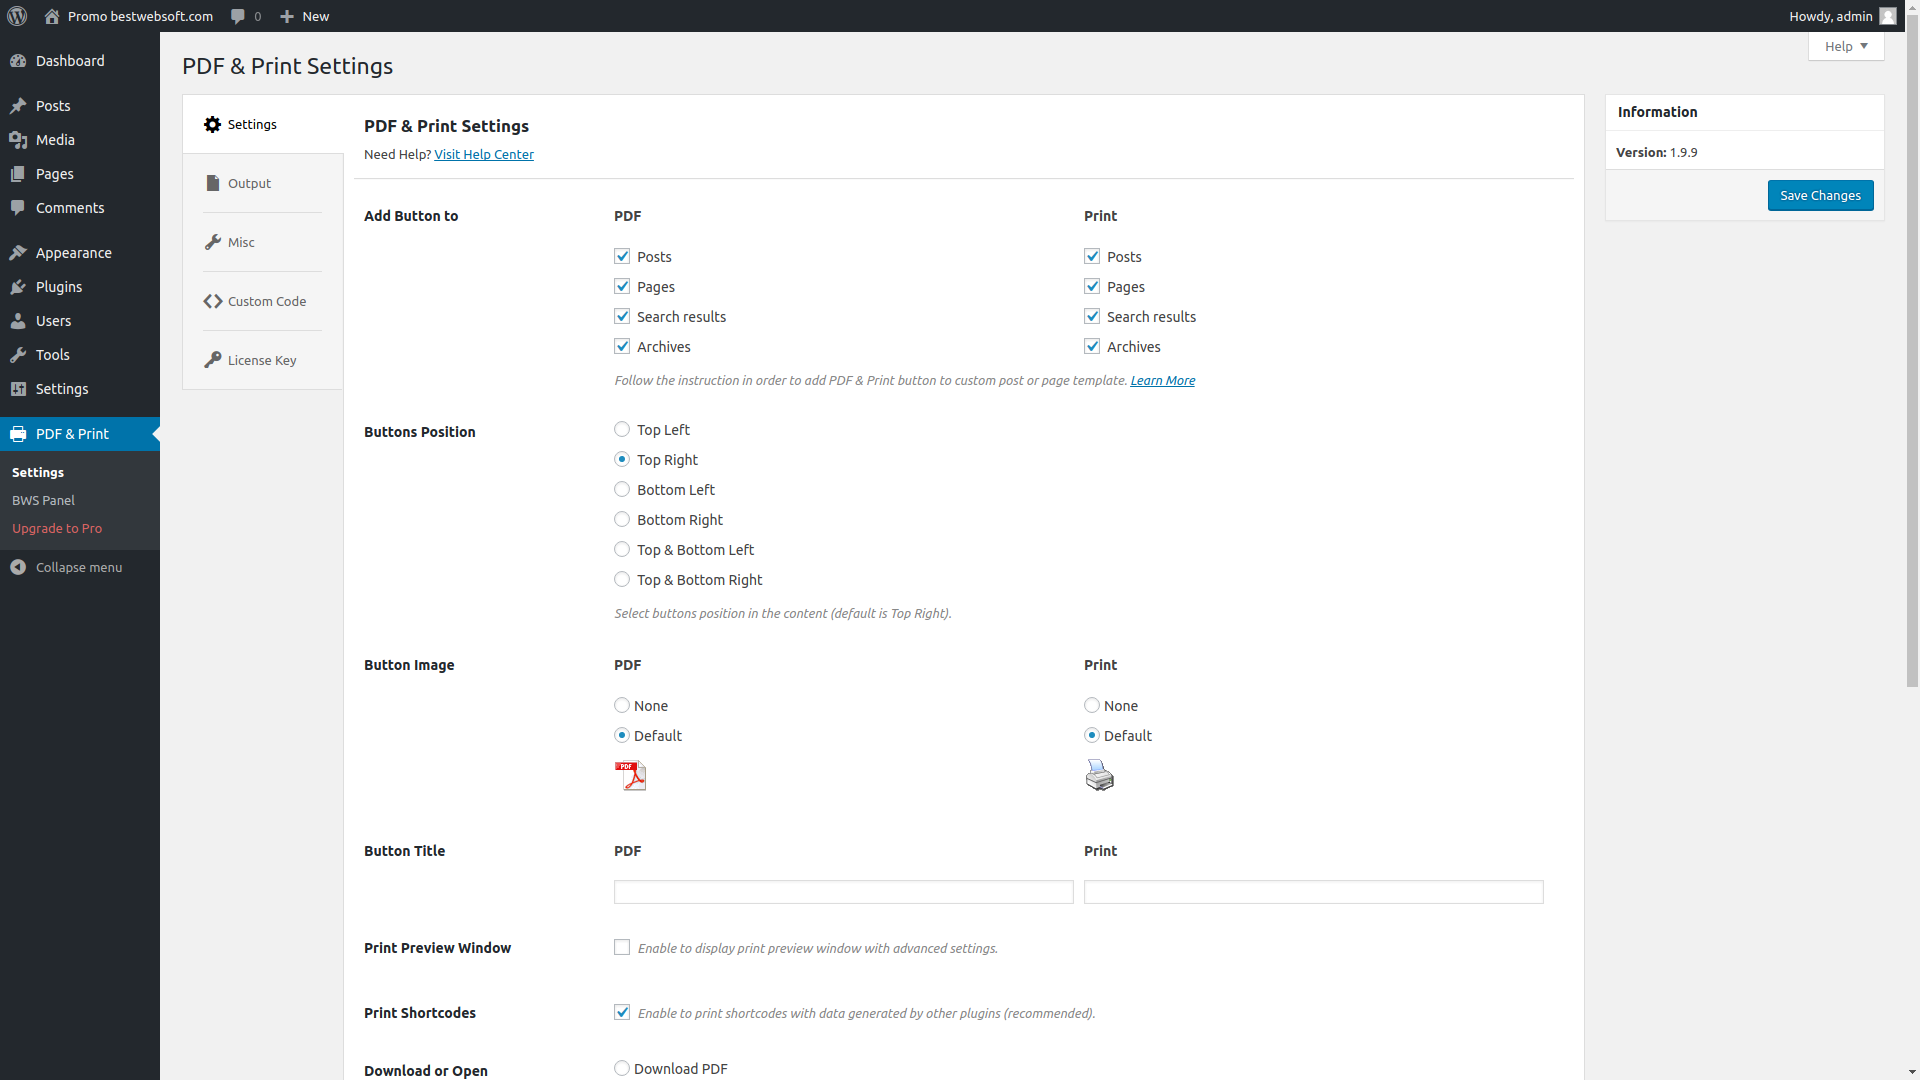
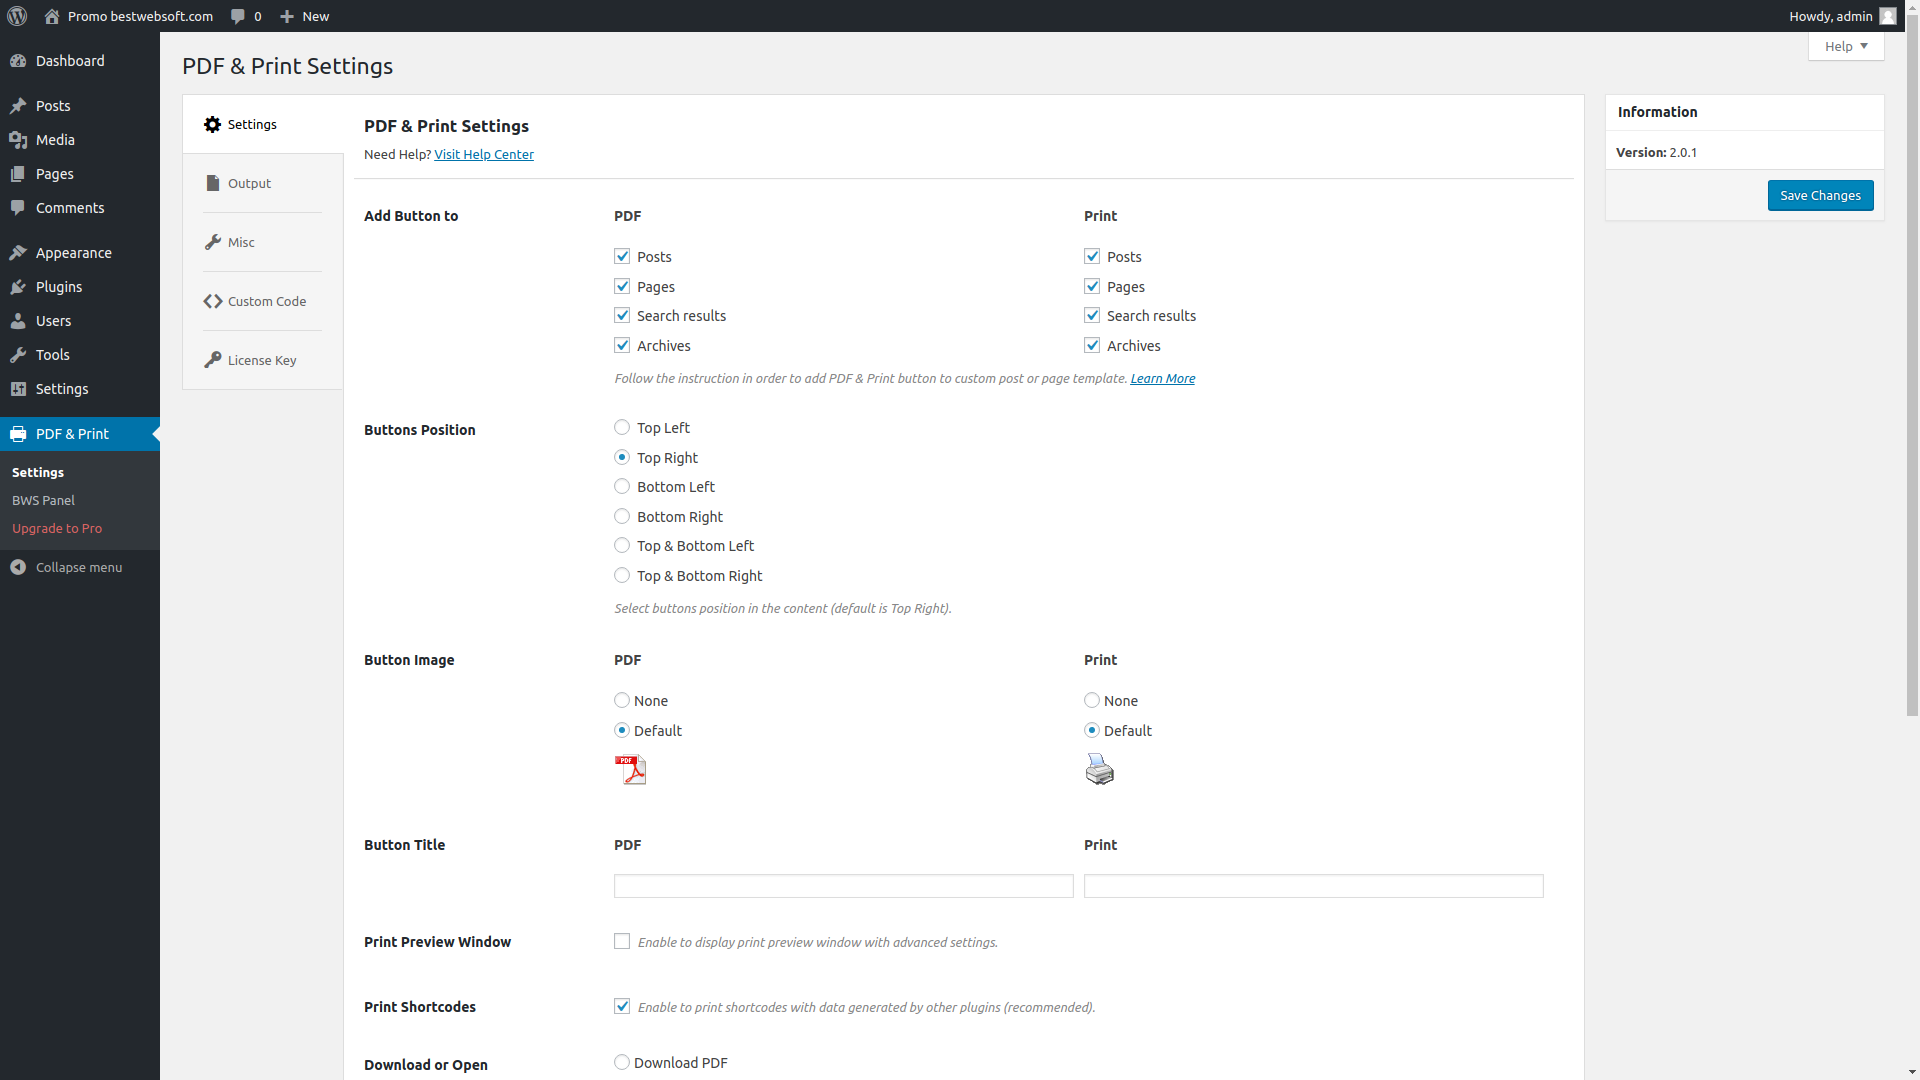
v2.0.1

diff --git a/pdf-print.php b/pdf-print.php
@@ -6,7 +6,7 @@ Description: Generate PDF files and print WordPress posts/pages. Customize docum
 Author: BestWebSoft
 Text Domain: pdf-print
 Domain Path: /languages
-Version: 2.0.0
+Version: 2.0.1
 Author URI: https://bestwebsoft.com/
 License: GPLv2 or later
 */
@@ -1029,7 +1029,7 @@ if ( ! function_exists( 'pdfprnt_print' ) ) {
 				if ( 'download' == $pdfprnt_options['file_action'] ){
 					$mpdf->Output( '', 'D' );
 				} else {
-					$mpdf->Output( $file_name, $flag );
+					$mpdf->Output();
 				}
 				die();
 				break;
